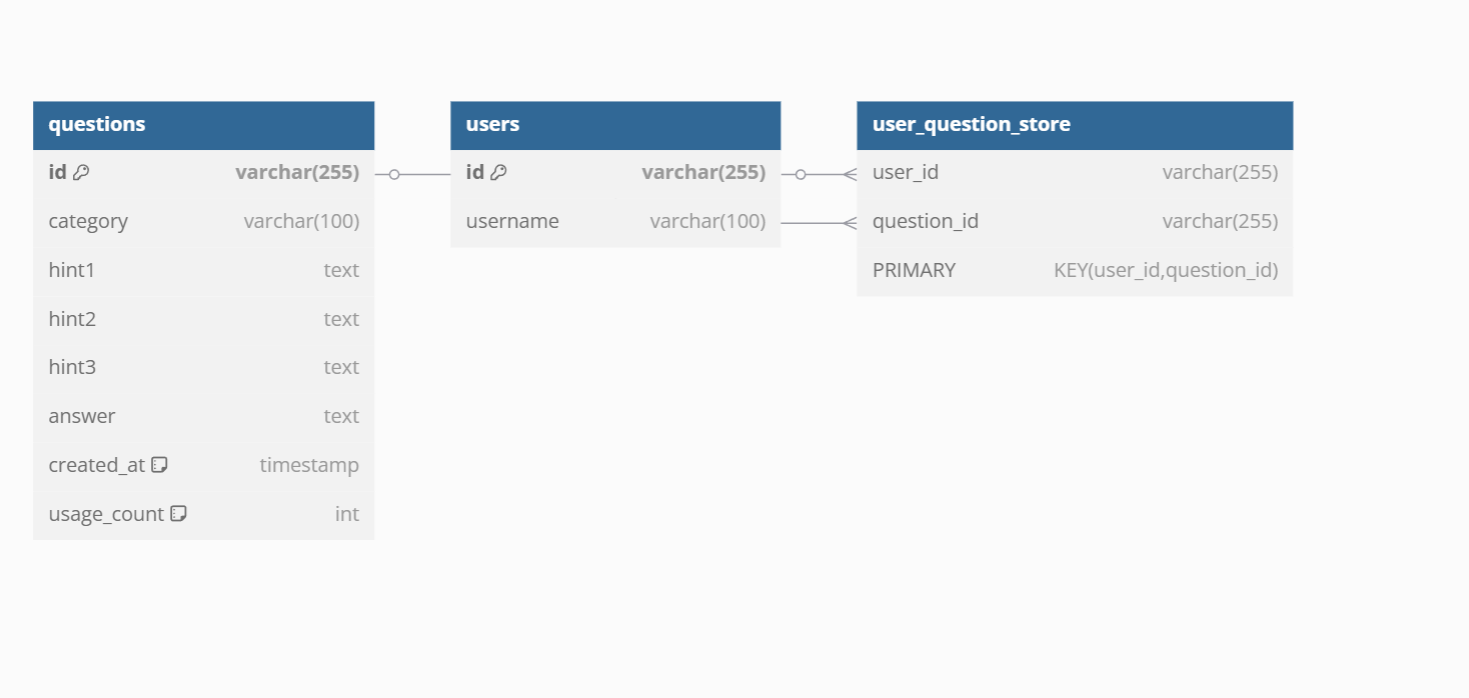
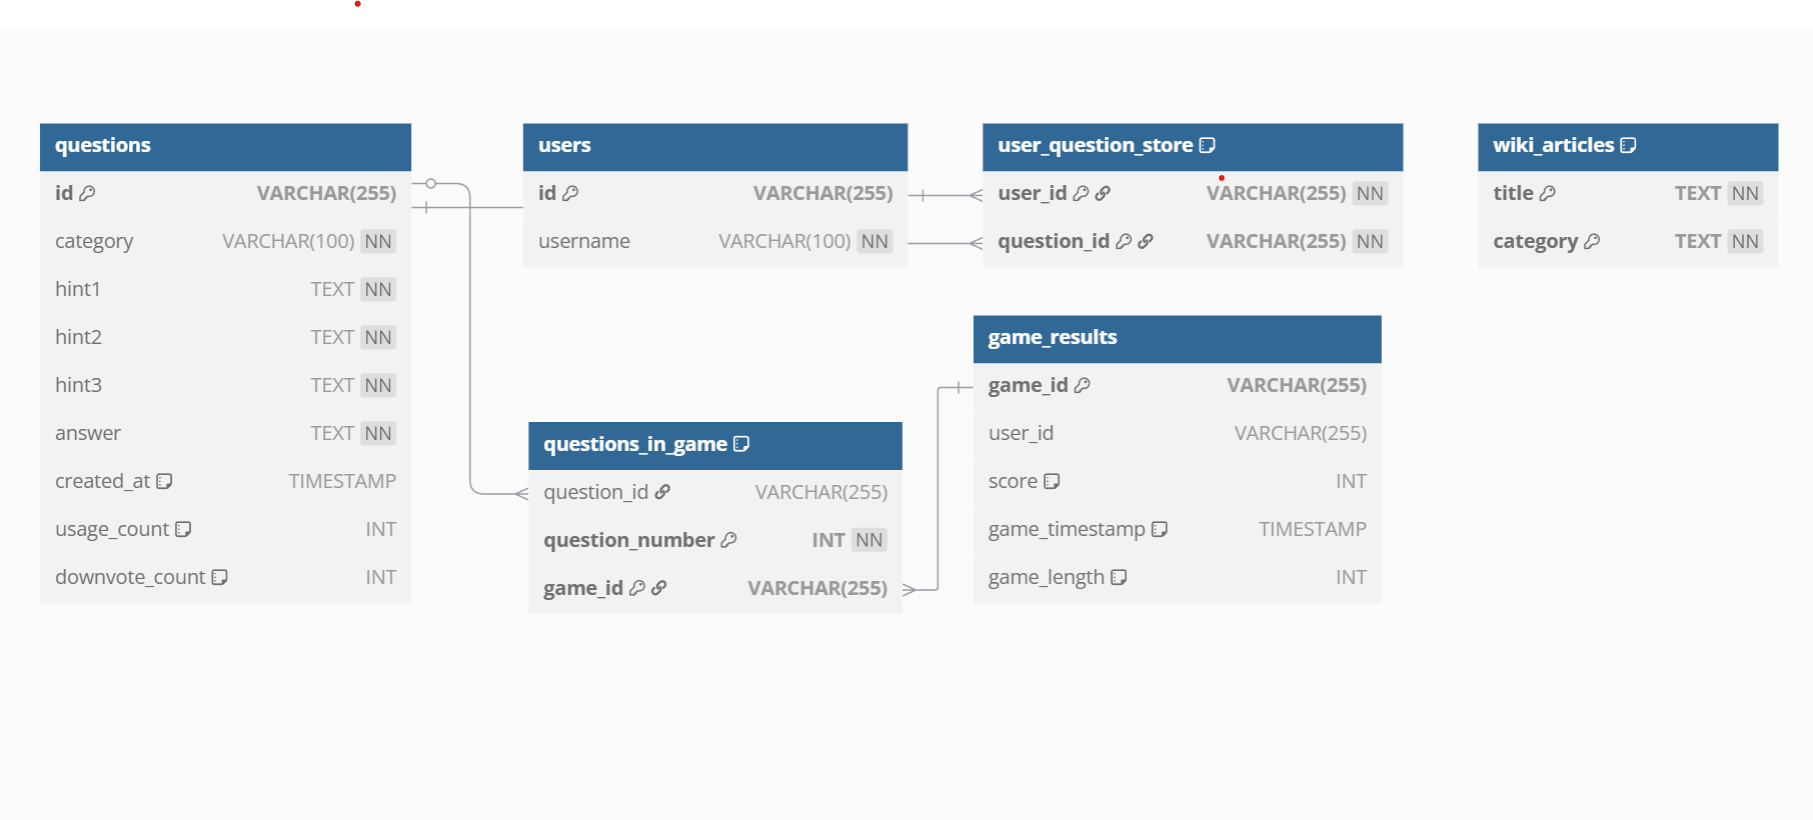
Added Documentation To Gamemaster and DB

diff --git a/gamemaster/gamemaster.py b/gamemaster/gamemaster.py
@@ -5,9 +5,13 @@ import psycopg2
 import os
 
 CACHE_SERVICE_URL = "http://cache:8000"
+"""The URL for the cache service."""
 MIN_ANSWER_SIMILARITY = 0.8
+"""Minimum similarity ratio for accepting a user's answer."""
 MIN_TOKEN_SIMILARITY = 0.5
+"""Minimum similarity ratio based on common tokens for accepting a user's answer."""
 DEFAULT_MAX_QUESTIONS = 5
+"""Default maximum number of questions in a game."""
 DB_CONFIG = {
     "dbname": os.environ.get("POSTGRES_DB"),
     "user": os.environ.get("POSTGRES_USER"),
@@ -15,23 +19,51 @@ DB_CONFIG = {
     "host": "postgres-db",
     "port": "5432"
 }
+"""Database configuration settings."""
 
 def get_db_connection():
+    """
+    Establishes a connection to the PostgreSQL database.
+
+    Returns:
+        psycopg2.extensions.connection: A connection object to the PostgreSQL database.
+    """
     conn = psycopg2.connect(**DB_CONFIG)
     return conn
 
 
 class GameMaster:
+    """
+    Manages the game flow and logic for a single client.
+    """
     def __init__(self, client_id, gm_instance_id, max_questions=DEFAULT_MAX_QUESTIONS):
+        """
+        Initializes a new GameMaster instance.
+
+        Args:
+            client_id (int): The ID of the client playing the game.
+            gm_instance_id (str): A unique identifier for this GameMaster instance.
+            max_questions (int, optional): The maximum number of questions for the game. Defaults to DEFAULT_MAX_QUESTIONS.
+        """
         self.client_id = client_id
+        """The ID of the client playing the game."""
         self.current_question = 0
+        """The index of the current question."""
         self.score = 0
+        """The player's current score."""
         self.id = gm_instance_id
+        """A unique identifier for this GameMaster instance."""
         self.questions = []
+        """A list to store the questions for the game."""
         self.max_questions = max_questions
+        """The maximum number of questions for the game."""
         self.downvoted_questions = []
+        """A list to store the IDs of downvoted questions."""
 
     async def load_questions(self):
+        """
+        Loads a batch of questions from the cache service.
+        """
         # Load batch from cache
         if self.questions:
             return
@@ -53,6 +85,13 @@ class GameMaster:
                 self.questions = []
 
     async def get_hints(self):
+        """
+        Retrieves hints for the current question.
+
+        Returns:
+            tuple: A tuple containing a list of hints (strings) and a boolean indicating if a question is available.
+                   Returns ([], False) if there are no more questions.
+        """
         # Implement logic to get the next hints
         await self.load_questions()
         if self.current_question < len(self.questions):
@@ -63,6 +102,15 @@ class GameMaster:
             return [], False
     
     def _normalize_answer(self, answer):
+        """
+        Normalizes an answer by converting it to lowercase, removing non-alphanumeric characters, and filtering out stop words.
+
+        Args:
+            answer (str): The answer to normalize.
+
+        Returns:
+            list: A list of normalized tokens.
+        """
         STOP_WORDS = set(["the", "a", "an", "of", "in", "on", "at", "and", "or", "but", "from"])
         answer = answer.lower()
         answer = re.sub(r'[^\w\s]', '', answer) # remove non-words and non-whitespace
@@ -71,6 +119,17 @@ class GameMaster:
         return tokens
     
     def _advanced_answer_check(self, user_answer, correct_answer, threshold = MIN_ANSWER_SIMILARITY):
+        """
+        Performs an advanced check to determine if the user's answer is similar to the correct answer.
+
+        Args:
+            user_answer (str): The user's answer.
+            correct_answer (str): The correct answer.
+            threshold (float, optional): The minimum similarity ratio for accepting the answer. Defaults to MIN_ANSWER_SIMILARITY.
+
+        Returns:
+            bool: True if the user's answer is considered correct, False otherwise.
+        """
         user_tokens = self._normalize_answer(user_answer)
         correct_tokens = self._normalize_answer(correct_answer)
         
@@ -94,6 +153,19 @@ class GameMaster:
         return False
 
     async def check_answer(self, answer):
+        """
+        Checks if the user's answer is correct.
+
+        Args:
+            answer (str): The user's answer.
+
+        Returns:
+            tuple: A tuple containing:
+                - bool: True if the answer is correct, False otherwise.
+                - int: The player's current score.
+                - str: The correct answer.
+                - list: A list of hints for the current question.
+        """
         # Implement logic to check the answer
         await self.load_questions()
 
@@ -114,6 +186,12 @@ class GameMaster:
         
 
     def downvote_question(self):
+        """
+        Downvotes the current question.
+
+        Returns:
+            str: The ID of the downvoted question.
+        """
         index = self.current_question - 1
         if 0 <= index < len(self.questions):
             question = self.questions[index]
@@ -122,6 +200,9 @@ class GameMaster:
         return question["id"]
     
     async def notify_downvoted_questions(self):
+        """
+        Notifies the cache service about the downvoted questions.
+        """
         payload = {
             "user_id": str(self.client_id),
             "batch": self.downvoted_questions
@@ -138,6 +219,9 @@ class GameMaster:
         print(f"Downvoted questions sent {self.downvoted_questions}")
     
     async def send_results(self):
+        """
+        Sends the game results to the database.
+        """
         # Writing Results to DB
         conn = get_db_connection()
         cursor = conn.cursor()

diff --git a/gamemaster/main.py b/gamemaster/main.py
@@ -25,31 +25,69 @@ DB_CONFIG = {
 }
 
 def get_db_connection():
+    """
+    Establishes a connection to the PostgreSQL database using the provided configuration.
+
+    Returns:
+        psycopg2.extensions.connection: A connection object to the PostgreSQL database.
+    """
     conn = psycopg2.connect(**DB_CONFIG)
     return conn
 
 
 class ConnectionManager:
+    """
+    Manages active WebSocket connections.
+    """
     def __init__(self):
+        """
+        Initializes the ConnectionManager with an empty dictionary to store active connections.
+        """
         self.active_connections: dict[int, WebSocket] = {}
 
     async def connect(self, client_id: int, websocket: WebSocket):
+        """
+        Accepts a new WebSocket connection and adds it to the active connections dictionary.
+
+        Args:
+            client_id (int): The ID of the client connecting.
+            websocket (WebSocket): The WebSocket connection object.
+        """
         if client_id not in self.active_connections:
             await websocket.accept()
             self.active_connections[client_id] = websocket
         print(f"Client {client_id} connected.")
 
     def disconnect(self, client_id: int):
+        """
+        Removes a WebSocket connection from the active connections dictionary.
+
+        Args:
+            client_id (int): The ID of the client to disconnect.
+        """
         if client_id in self.active_connections:
             del self.active_connections[client_id]
             print(f"Client {client_id} disconnected.")
 
     async def send_message(self, client_id: int, message: dict):
+        """
+        Sends a JSON message to a specific client via WebSocket.
+
+        Args:
+            client_id (int): The ID of the client to send the message to.
+            message (dict): The message to send, as a dictionary.
+        """
         ws = self.active_connections.get(client_id)
         if ws:
             await ws.send_json(message)
             
     async def broadcast(self, message: dict):
+        """
+        Broadcasts a JSON message to all connected clients.
+
+        Args:
+            message (dict): The message to broadcast, as a dictionary.
+        """
         for ws in self.active_connections.values():
             await ws.send_json(message)
 
@@ -60,6 +98,13 @@ manager = ConnectionManager()
 hint_tasks = {}
 @app.websocket("/ws/quiz/{client_id}")
 async def websocket_endpoint(websocket: WebSocket, client_id: int):
+    """
+    WebSocket endpoint for handling quiz game logic.
+
+    Args:
+        websocket (WebSocket): The WebSocket connection object.
+        client_id (int): The ID of the client connecting.
+    """
     # Connect the client
     await manager.connect(client_id, websocket)
     
@@ -125,6 +170,13 @@ async def websocket_endpoint(websocket: WebSocket, client_id: int):
         await websocket.close()
 
 async def send_hints_timed(game_master, client_id: int):
+    """
+    Sends hints to the client at timed intervals.
+
+    Args:
+        game_master: The game master instance.
+        client_id (int): The ID of the client to send hints to.
+    """
     try:
         # Fetch hints
         while True:
@@ -164,10 +216,26 @@ async def send_hints_timed(game_master, client_id: int):
 
 
 class LoginData(BaseModel):
+    """
+    Pydantic model for login data.
+
+    Attributes:
+        username (str): The username of the user.
+        client_id (str): The ID of the client logging in.
+    """
     username: str
     client_id: str
 @app.post('/ws/login')
 async def login(data: LoginData):
+    """
+    Endpoint for user login.  If the user exists, their username is updated if it doesn't match the provided username.  If the user doesn't exist, a new user is created.
+
+    Args:
+        data (LoginData): The login data containing username and client ID.
+
+    Returns:
+        dict: A dictionary containing the status of the login operation.
+    """
     print(f"Logging in user {data.username} with client_id {data.client_id},", flush=True) 
     try:
         conn = get_db_connection()
@@ -201,6 +269,12 @@ async def login(data: LoginData):
 
 @app.get('/ws/leaderboard/get_leaderboard')
 async def get_leaderboard():
+    """
+    Endpoint to retrieve the leaderboard data.
+
+    Returns:
+        list: A list of dictionaries, where each dictionary contains the username and score of a user.
+    """
     try:
         print("Getting leaderboard", flush=True)
         conn = get_db_connection()
@@ -231,4 +305,3 @@ async def get_leaderboard():
             cursor.close()
         if conn:
             conn.close()
-

diff --git a/gamemaster/gmfactory.py b/gamemaster/gmfactory.py
@@ -1,20 +1,62 @@
 from gamemaster import GameMaster
 
-# GmFacroty class to manage GameMaster instances
 class GmFactory:
+    """
+    Factory class for managing GameMaster instances and game sessions.
+    
+    Maintains a registry of active game sessions and handles their lifecycle.
+    """
+    
     def __init__(self):
+        """
+        Initializes a new GmFactory instance with empty game masters registry.
+        Creates first game master with ID 1 to avoid zero-based indexing issues.
+        """
         self.game_masters = {}
-        # Initialize the game_master_number to 0, could cause issues with too many game masters
+        """Dictionary mapping client IDs to GameMaster instances (client_id: GameMaster)."""
         self.game_master_number = 1
-        
+        """Auto-incrementing counter for generating unique game instance IDs."""
+
     def get_or_create_game_master(self, client_id: int, max_questions: int) -> int:
+        """
+        Retrieves or creates a GameMaster instance for a client.
+
+        Args:
+            client_id (int): Unique identifier for the client
+            max_questions (int): Maximum number of questions for the game session
+
+        Returns:
+            int: Client ID used as the key in the game masters registry
+
+        Note:
+            Creates new GameMaster if none exists for the client ID
+            Auto-increments game master ID for each new creation
+        """
         if client_id not in self.game_masters:
             self.game_masters[client_id] = GameMaster(client_id, self.game_master_number, max_questions)
             print(f"Game Master {self.game_master_number} with client_id: {client_id} created")
             self.game_master_number += 1
         return client_id
     
-    async def end_game(self, client_id):
+    async def end_game(self, client_id) -> int:
+        """
+        Properly terminates a game session and cleans up resources.
+
+        Args:
+            client_id: Client ID whose game should be ended
+
+        Returns:
+            int: ID of the ended game instance
+
+        Raises:
+            KeyError: If no game exists for the specified client ID
+
+        Performs:
+            1. Notifies cache service about downvoted questions
+            2. Sends final results to database
+            3. Removes game instance from registry
+            4. Logs game termination
+        """
         gm = self.game_masters.get(client_id)
         await gm.notify_downvoted_questions()
         gm_id = gm.id
